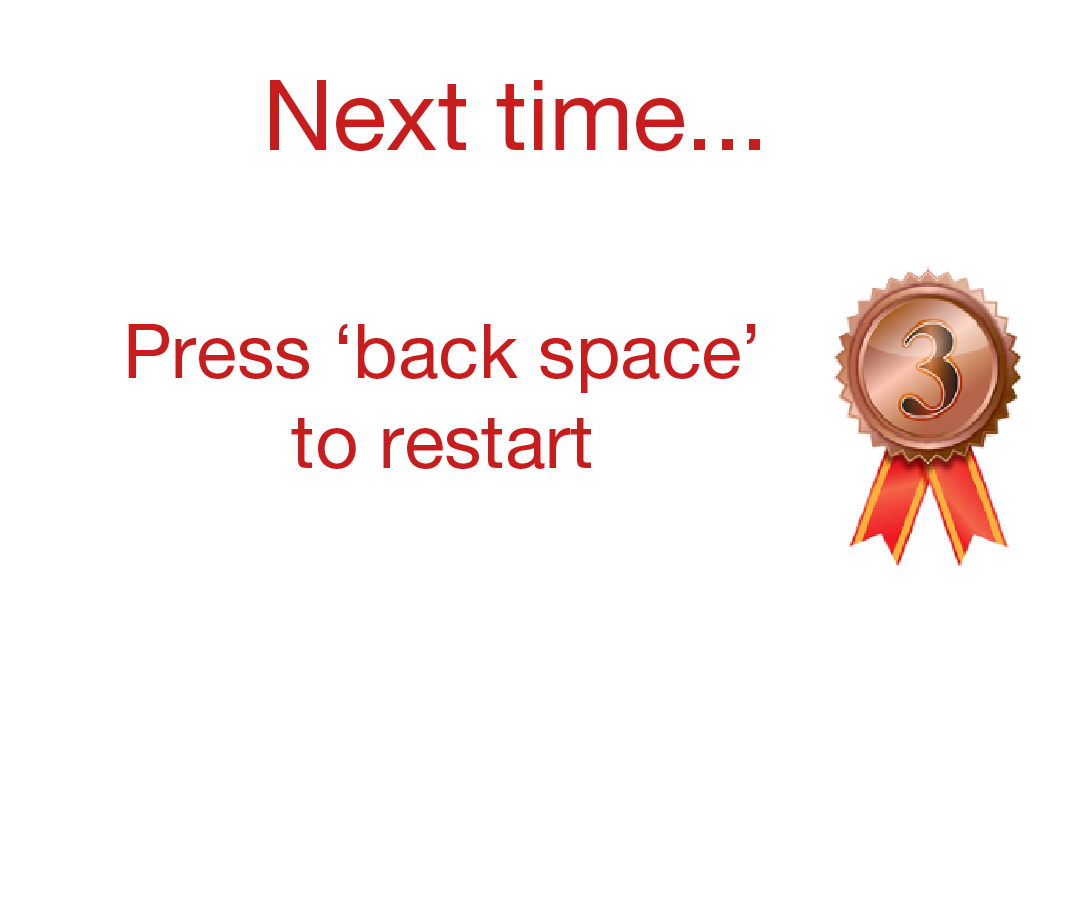
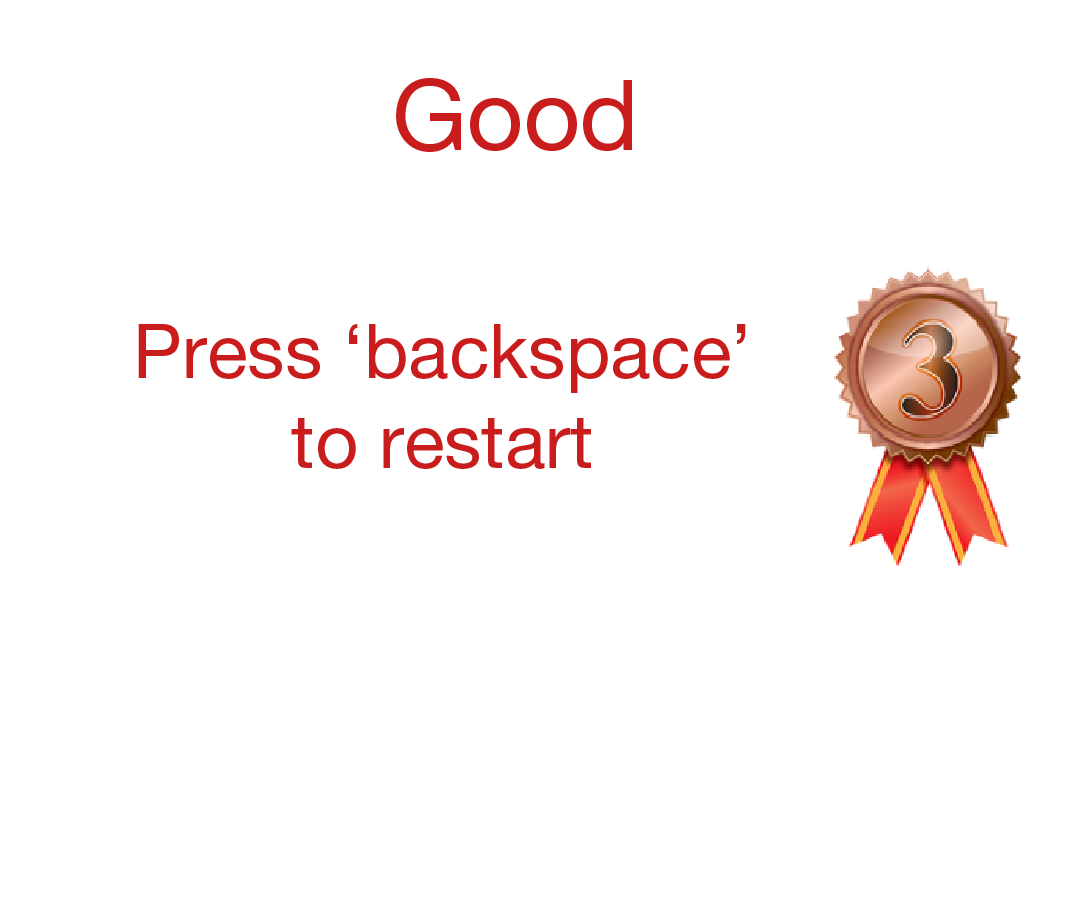
Adding text Win/Lose

Changed region(s): [[0.0917, 0.3348, 0.7028, 0.4261], [0.2444, 0.0609, 0.7028, 0.1826]]

diff --git a/ModulePlayer.cpp b/ModulePlayer.cpp
@@ -201,38 +201,37 @@ update_status ModulePlayer::Update(float dt)
 		App->scene_intro->plane_random_way2->Push(-4000, 0, 1000);
 	}
 
-	char title[80];
+	char title[200];
 
 	if (game_over == false)
 		sprintf_s(title, "%.1f Km/h | %i seconds | Record: %i", vehicle->GetKmh(), player_time.Read() / 1000, player_record / 1000);
 	else if (game_over)
-		sprintf_s(title, "Total time: %i seconds | Record: %i", vehicle->GetKmh(), total_time / 1000, player_record / 1000);
-
-	App->window->SetTitle(title);
-
-	if (game_over)
 	{
-		if (total_time > TIME_GOLD)
+		if (total_time < TIME_GOLD)
 		{
+			sprintf_s(title, "Total time: %i seconds | Congratulations you Win the gold medal! | Record: %i | Press 'backspace' to reset", vehicle->GetKmh(), total_time / 1000, player_record / 1000);
 
 		}
 
-		if (total_time < TIME_GOLD && total_time >= TIME_SILVER)
+		if (total_time > TIME_GOLD && total_time <= TIME_SILVER)
 		{
+			sprintf_s(title, "Total time: %i seconds | Well done you Win the silver medal! | Record: %i | Press 'backspace' to reset", vehicle->GetKmh(), total_time / 1000, player_record / 1000);
 
 		}
 
-		if (total_time < TIME_SILVER && total_time >= TIME_BRONZE)
+		if (total_time > TIME_SILVER && total_time <= TIME_BRONZE)
 		{
+			sprintf_s(title, "Total time: %i seconds | Good you Win the bronze medal! | Record: %i | Press 'backspace' to reset", vehicle->GetKmh(), total_time / 1000, player_record / 1000);
 
 		}
 
-		if (total_time < TIME_BRONZE)
+		if (total_time > TIME_BRONZE)
 		{
+			sprintf_s(title, "Total time: %i seconds | Sorry You lose | Record: %i | Press 'backspace' to reset", vehicle->GetKmh(), total_time / 1000, player_record / 1000);
 
 		}
 	}
-
+	App->window->SetTitle(title);
 	return UPDATE_CONTINUE;
 }
 
